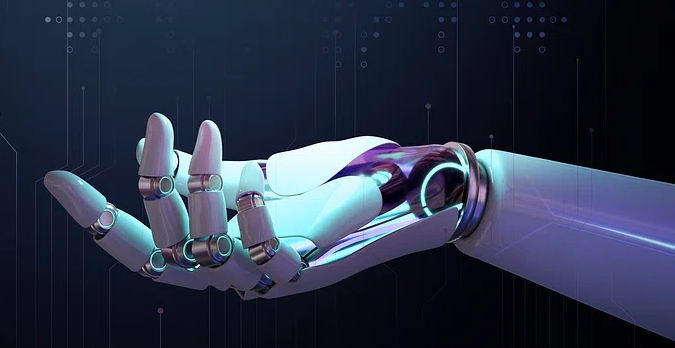
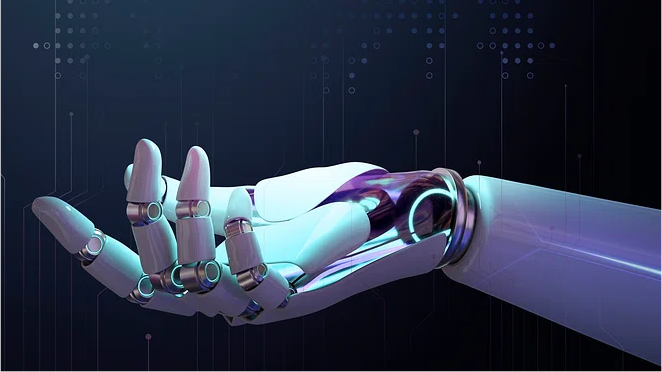
Update background image

diff --git a/static/style.css b/static/style.css
@@ -13,3 +13,7 @@ body {
     font-weight: 500;
     font-size: 16px;
 }
+
+.query-parameter-explanation {
+    padding-left: 40px;
+}
